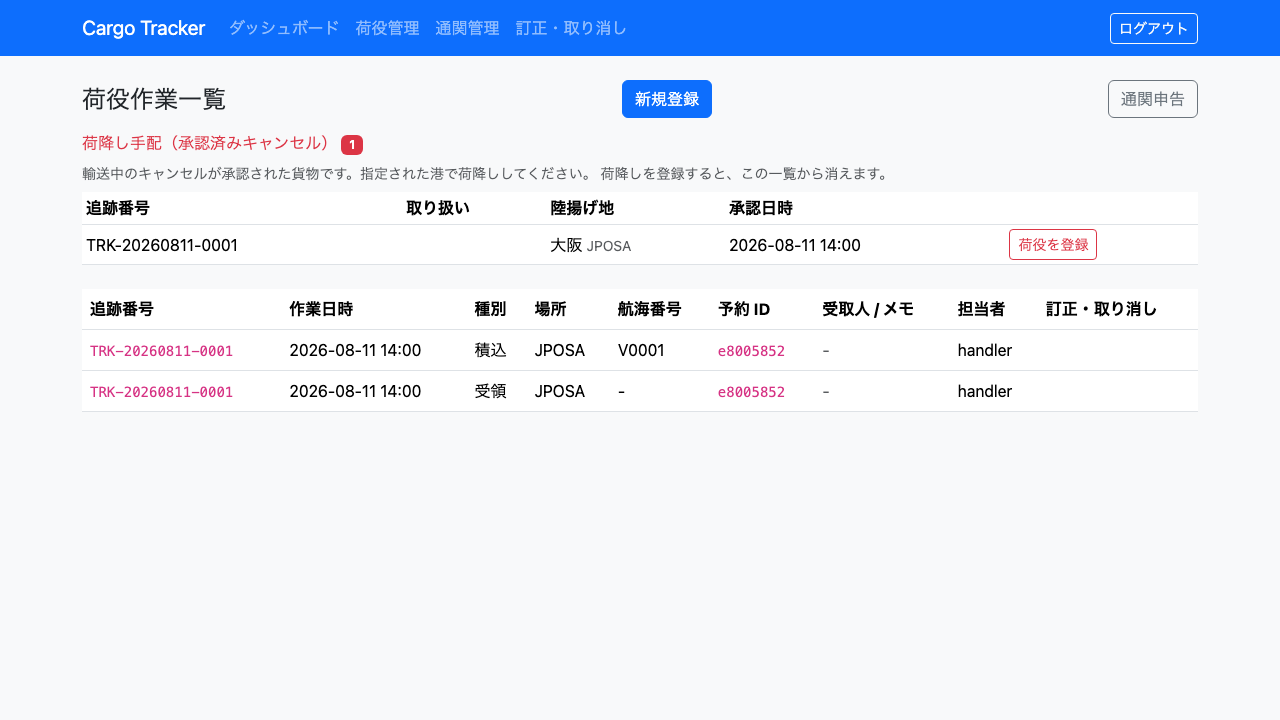
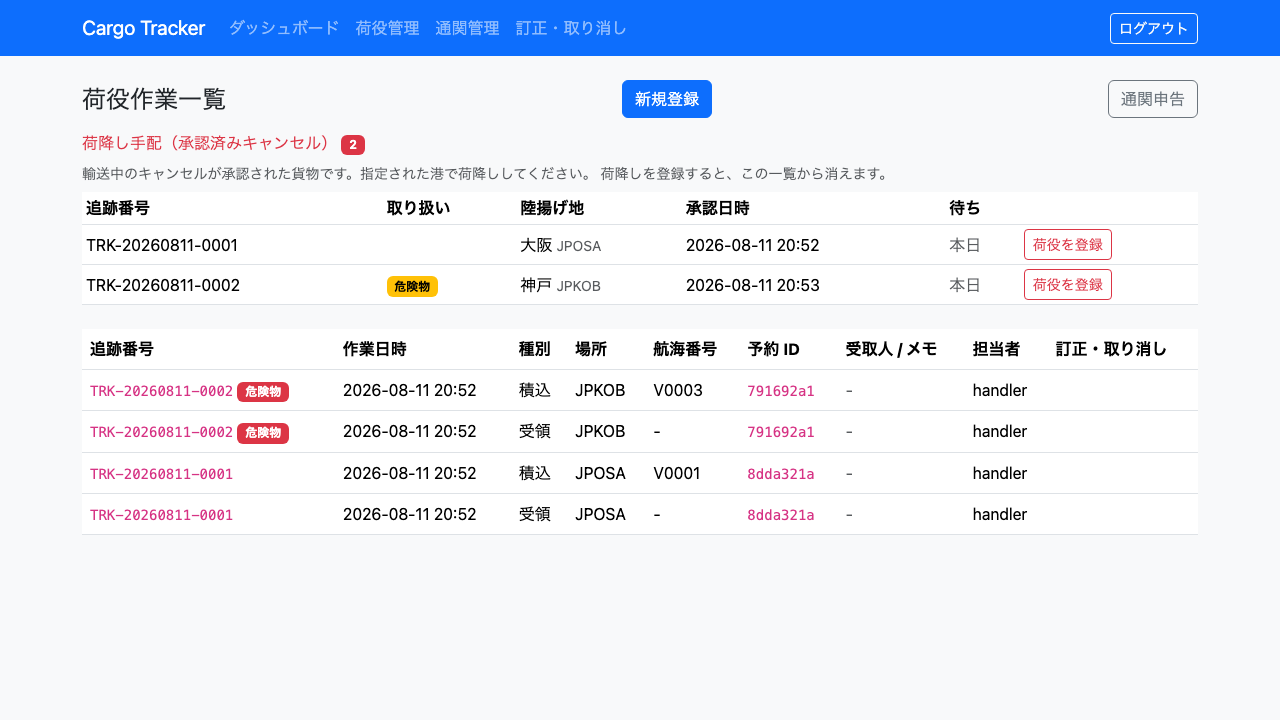
docs(manual): 荷降し手配のキャプチャを複数件・危険物つきで撮り直す（R10 / R1）
1 件だけの図では読者が自分の画面と照合できない。実務では複数の手配が並び、
危険物には取り扱いのバッジが付く。図に出ていないものは「自分の画面がおかしい」
と読まれる。

キャプチャ生成の spec を直し、一般貨物と危険物の 2 件を作って撮るようにした。
**危険物を運べる便は限られる**ことが途中で分かった——V0003 だけが HAZARDOUS を
扱い、JPKOB → NLRTM を走る。JPOSA → USLAX で危険物の予約を作ると経路候補が
出ず、確定できない。便に合わせて経路を変えた。

あわせて R1 で足した「待ち」列を項目表と注意書きに反映した。**「待ち」は期限
ではない**ことを明記している——承認は「どこで降ろすか」を決めるが「いつまでに」
は決めていない。出ているのは承認から何日経ったかという事実である。

Claude-Session: https://claude.ai/code/session_01Ct6FDt1BGonFA4BM2qTJfK

diff --git a/e2e/manual/manual-screenshots.spec.js b/e2e/manual/manual-screenshots.spec.js
@@ -315,14 +315,21 @@ const HANDLER = { username: 'handler', password: 'password' };
  * @param {import('@playwright/test').Page} page ページ
  * @returns {Promise<string>} 予約詳細の URL
  */
-async function newBookingAwaitingRouting(page) {
+async function newBookingAwaitingRouting(page, cargo = {}) {
+  const { cargoType = 'GENERAL', origin = 'JPOSA', destination = 'USLAX' } = cargo;
   await loginAs(page, SALES);
   await page.goto('/bookings/new');
   await page.fill('#shipperCode', DEMO_SHIPPER.code);
-  await page.selectOption('#cargoType', 'GENERAL');
+  await page.selectOption('#cargoType', cargoType);
+  if (cargoType === 'HAZARDOUS') {
+    // **申告の無い危険物は集約が受け付けない**（US05）
+    await page.fill('#hazardClass', '3');
+    await page.fill('#unNumber', 'UN1263');
+    await page.fill('#properShippingName', 'PAINT');
+  }
   await page.fill('#weight', '1000');
-  await page.fill('#origin', 'JPOSA');
-  await page.fill('#destination', 'USLAX');
+  await page.fill('#origin', origin);
+  await page.fill('#destination', destination);
   await page.fill('#arrivalDeadline', localDate(60));
   await page.getByRole('button', { name: '登録する' }).click();
   const detailUrl = page.url();
@@ -338,8 +345,8 @@ async function newBookingAwaitingRouting(page) {
  * @param {import('@playwright/test').Page} page ページ
  * @returns {Promise<string>} 予約詳細の URL
  */
-async function confirmedBooking(page) {
-  const bookingUrl = await newBookingAwaitingRouting(page);
+async function confirmedBooking(page, cargo = {}) {
+  const bookingUrl = await newBookingAwaitingRouting(page, cargo);
   await loginAs(page, ROUTER);
   await page.goto(bookingUrl + '/route');
   await page.getByRole('button', { name: /経路候補を(再)?算出する/ }).click();
@@ -415,7 +422,31 @@ test('08-handling-list（荷役作業一覧）', async ({ page }) => {
 test('08-handling-discharge-orders（荷降し手配）', async ({ page }) => {
   // **手配がある状態で撮る。** 手配が 0 件だとこの節そのものが出ず、
   // 読者は説明にある図を自分の画面で見つけられない
-  const detailUrl = await confirmedBooking(page);
+  //
+  // **1 件だけの図では読者が自分の画面と照合できない**（IT17 の R10）。
+  // 実務では複数の手配が並び、危険物には取り扱いのバッジが付く。
+  // 図に出ていないものは「自分の画面がおかしい」と読まれる
+  // **危険物を運べる便は限られる。** 便が無ければ経路候補が出ず、確定できない
+  // （V0003 のみ HAZARDOUS を扱い、JPKOB → NLRTM を走る）
+  await 荷降し手配を作る(page, {});
+  await 荷降し手配を作る(
+    page, { cargoType: 'HAZARDOUS', origin: 'JPKOB', destination: 'NLRTM' });
+
+  await loginAs(page, HANDLER);
+  await page.goto('/handling');
+  await expect(page.getByRole('heading', { name: /荷降し手配/ })).toBeVisible();
+  await capture(page, '08-handling-discharge-orders.png');
+});
+
+/**
+ * 荷降し手配を 1 件作る（申請から承認まで業務の順序をなぞる）.
+ *
+ * @param {import('@playwright/test').Page} page ページ
+ * @param {{cargoType?: string, origin?: string, destination?: string}} cargo 貨物の条件
+ */
+async function 荷降し手配を作る(page, cargo) {
+  const { origin = 'JPOSA' } = cargo;
+  const detailUrl = await confirmedBooking(page, cargo);
   await loginAs(page, TRACKER);
   await page.goto(detailUrl);
   await page.getByRole('button', { name: '追跡番号を発行' }).click();
@@ -428,11 +459,11 @@ test('08-handling-discharge-orders（荷降し手配）', async ({ page }) => {
     await page.fill('#trackingNumber', trackingNumber);
     await page.selectOption('#type', type);
     await page.fill('#completionTime', localDateTime());
-    await page.fill('#locationUnlocode', 'JPOSA');
+    await page.fill('#locationUnlocode', origin);
     if (type === 'LOAD') {
       // **積込で輸送が始まる。** 航海番号が無いと予約は輸送中にならず、
       // 「キャンセルを申請」の欄そのものが画面に出ない
-      await page.fill('#voyageNumber', 'V0001');
+      await page.fill('#voyageNumber', origin === 'JPKOB' ? 'V0003' : 'V0001');
     }
     await page.getByRole('button', { name: '登録する' }).click();
   }
@@ -450,12 +481,7 @@ test('08-handling-discharge-orders（荷降し手配）', async ({ page }) => {
   await page.selectOption('#discharge', { index: 0 });
   page.once('dialog', (dialog) => dialog.accept());
   await page.getByRole('button', { name: '承認する' }).click();
-
-  await loginAs(page, HANDLER);
-  await page.goto('/handling');
-  await expect(page.getByRole('heading', { name: /荷降し手配/ })).toBeVisible();
-  await capture(page, '08-handling-discharge-orders.png');
-});
+}
 
 /**
  * 追跡番号を発行し、通関の荷役まで記録した貨物を用意する（US29）.

diff --git a/docs/manual/08-荷役管理.md b/docs/manual/08-荷役管理.md
@@ -361,7 +361,8 @@
 | ③ | 取り扱い | 危険物・冷凍冷蔵のときだけバッジが出ます。**一般貨物では出ません** |
 | ④ | 陸揚げ地 | 追跡管理者が指定した港（港名と UN/LOCODE） |
 | ⑤ | 承認日時 | キャンセルが承認された日時です |
-| ⑥ | 「荷役を登録」 | 追跡番号を持ったまま荷役作業の記録画面を開きます |
+| ⑥ | 待ち | 承認から何日待っているかです。**当日は「本日」**と出ます。3 日を超えると色が変わり、**7 日を超えると「滞留」**と示します |
+| ⑦ | 「荷役を登録」 | 追跡番号を持ったまま荷役作業の記録画面を開きます |
 
 ### 操作手順
 
@@ -374,6 +375,8 @@
 
 - **「荷降し手配」は指示であり、記録ではありません。** 一覧の下にある荷役作業一覧の「荷降し」は、**現場が実際に降ろした記録**です。手配はまだ降ろしていないものを指します。
 - **並び順は承認の古い順です。** 上から順に捌いてください。**待たせている手配ほど上に出ます。**
+- **「待ち」は期限ではありません。** キャンセルの承認は「どこで降ろすか」を決めますが、「いつまでに降ろすか」は決めていません。出ているのは**承認から何日経ったか**という事実です。貨物が港にとどまるほど保管料と積み替えの手間が増えるため、長く待っているものから片付けてください。
+- **「滞留」が出ている手配は、降ろせない事情がある可能性があります。** 船が着いていない・陸揚げ地の港で受け入れられない等が考えられます。1 週間を超えて残っている場合は、追跡管理者へ状況をご確認ください。
 - **荷降しを登録すると、その手配は一覧から消えます。** 済んだ指示が残り続けると、毎朝それを読み飛ばす習慣がついてしまい、やがて新しい指示も読み飛ばすためです。
 - **手配が 1 件も無いときは、この節そのものが表示されません。** 通常の荷役作業一覧だけが出ます。
 - **却下されたキャンセルは手配に出ません。** 却下は「降ろさない」という決定です。
